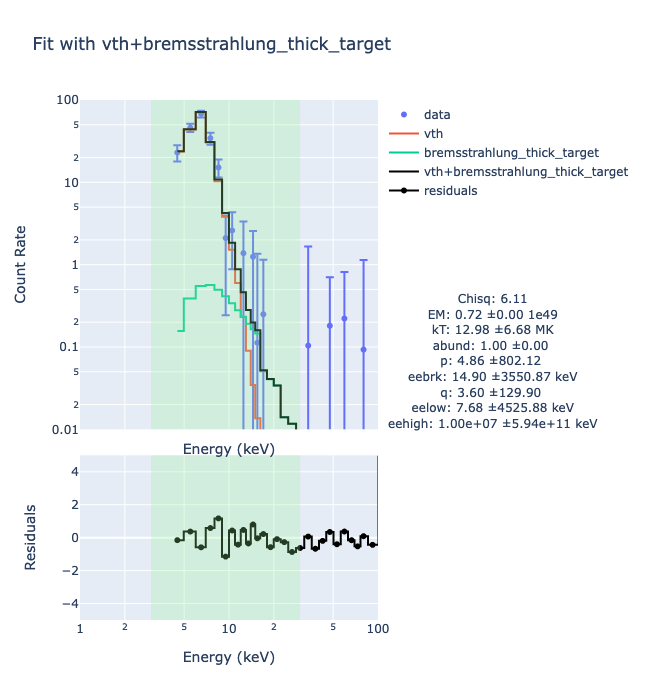
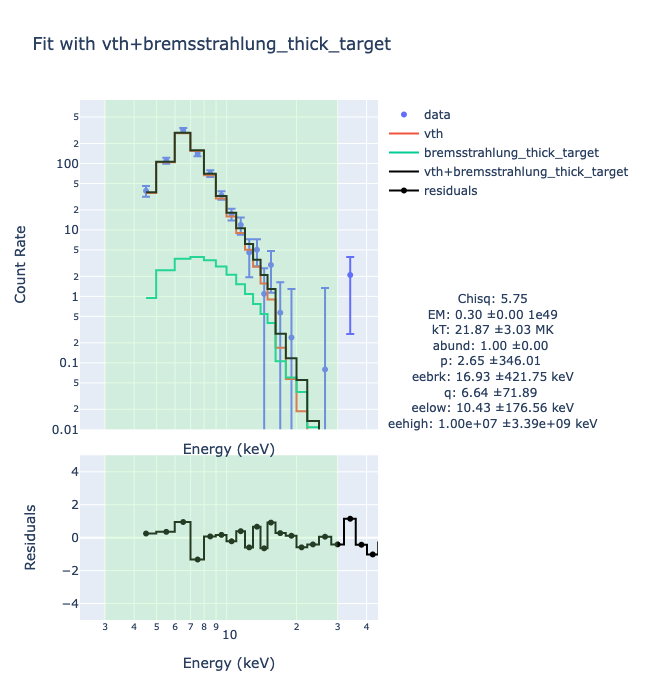
all tests passed

diff --git a/tests/test_convert_spectrogram.py b/tests/test_convert_spectrogram.py
@@ -12,7 +12,7 @@ from stix2xspec.spectrogram_utils import *
 from stix2xspec.stix2xspec import *
 from stix2xspec.write_spectrum2fits import ogip_time_calcs
 from matplotlib import pyplot as plt
-from ml_utils import print_arr_stats
+from importlib import resources
 import pidly
 import os
 
@@ -170,7 +170,7 @@ def test_l1bg_apply_elut(**kwargs):
     
 def test_apply_elut(fitsfile, background = False, pixel=False, atol = 1e-4,energy_shift = 0, use_discriminators = True, replace_doubles = False, keep_short_bins = True, shift_duration = None, alpha = None, time_bin_filename = None):
     spec = Spectrogram(fitsfile, background = background)
-    spec.apply_elut(elut_filename = 'elut_table_20211209.csv')
+    spec.apply_elut(elut_filename = f"{os.environ['STX_CONF']}/elut/elut_table_20211209.csv")
 
     ## same in IDL
     #os.chdir('/Users/wheatley/Documents/Solar/STIX/code/STIX-GSW/')
@@ -278,7 +278,7 @@ def test_l1abg_correction(**kwargs):
     
 def test_correction(fitsfile, background = False, pixel=False, atol = 1e-4,energy_shift = 0, use_discriminators = True, replace_doubles = False, keep_short_bins = True, shift_duration = None, alpha = None, time_bin_filename = None):
     spec = Spectrogram(fitsfile, background = background)
-    spec.apply_elut(elut_filename = 'elut_table_20211209.csv')
+    spec.apply_elut(elut_filename = f"{os.environ['STX_CONF']}/elut/elut_table_20211209.csv")
     #if spec.alpha == 0:
     #    spec.data_level = 4
     spec.correct_counts()
@@ -400,7 +400,7 @@ def test_l1a_conversion(**kwargs):
 #    test_from_fits(l4_test)
     
 def test_conversion(fitsfile, bgfile, atol = 1e-4,energy_shift = 0, pixel=False, use_discriminators = True, replace_doubles = False, keep_short_bins = True, shift_duration = None, alpha = None, time_bin_filename = None):
-    rdict = convert_spectrogram(fitsfile, bgfile, elut_filename = 'elut_table_20211209.csv', testing = True)
+    rdict = convert_spectrogram(fitsfile, bgfile, elut_filename = f"{os.environ['STX_CONF']}/elut/elut_table_20211209.csv", testing = True)
     spec = rdict['spec']
     spec_bk = rdict['spec_bk']
     ## same in IDL
@@ -511,6 +511,48 @@ def test_ogip_time_calcs():
     spec_l1.correct_counts()
     timedict_l1 = ogip_time_calcs(spec_l1)
     print("L1 test passed successfully")
+
+def test_l1a_converted_file():
+    #with resources.path('stix2xspec.data','stx_spectrum_20220723_122031.fits') as pyf:
+    check_converted_files("/Users/wheatley/Documents/Solar/STIX/spectral_fitting/stx_spectrum_2208046494.fits", '/Users/wheatley/Documents/Solar/STIX/spectral_fitting/stx_spectrum_20220804_132655.fits')
+
+def test_l4_converted_file(**kwargs):
+    with resources.path('stix2xspec.data','stx_spectrum_20220723_122031.fits') as pyf:
+        check_converted_files("/Users/wheatley/Documents/Solar/STIX/spectral_fitting/stx_spectrum_2207238956.fits", str(pyf), atol = kwargs['atol'])
+        
+def compare_header_values(py,idl, idx=0, ignoreTrue=True):
+    for k in py[idx].header:
+        if k in idl[idx].header:
+            try:
+                ac = np.allclose(py[idx].header[k],idl[idx].header[k])
+                if not ignoreTrue or not ac:
+                    print(k,ac)
+            except TypeError:
+                if isinstance(py[idx].header[k],str):
+                    ac = py[idx].header[k] == idl[idx].header[k]
+                    if not ignoreTrue or not ac:
+                        print(k,ac)
+                else:
+                    print(k, py[idx].header[k], idl[idx].header[k])
+        
+def check_converted_files(idlconvert, pyconvert, atol = 1e-4):
+    with fits.open(pyconvert) as py, fits.open(idlconvert) as idl:
+        compare_header_values(py,idl)
+        compare_header_values(py,idl,idx=1)
+        for d in py[1].data.names[:-1]:
+            if d == 'TIME':
+                idltimes = [Time(Time(idl[1].header['TIMEZERO']+idl[1].header['MJDREF'], format='mjd').datetime + td(seconds = t)).mjd for t in idl[1].data.TIME]
+                assert_allclose(idltimes, py[1].data.TIME, atol=atol)
+            else:
+                assert_allclose(py[1].data[d], idl[1].data[d], atol=atol)
+        for d in py[2].data.names:
+            assert_allclose(py[2].data[d], idl[2].data[d], atol=atol)
+        for d in py[3].data.names[1:]:
+            #if 'TIME' in d:
+            #    idltimes = [Time(Time(idl[1].header['TIMEZERO']+idl[1].header['MJDREF'], format='mjd').datetime + td(seconds = t)).mjd for t in idl[3].data[d]]
+            #    assert_allclose(idltimes, py[3].data[d], atol=atol)
+            #else:
+            assert_allclose(py[3].data[d], idl[3].data[d], atol=atol)
 
 if __name__ == "__main__":
     test_l4_conversion()

diff --git a/tests/test_example3.py b/tests/test_example3.py
@@ -17,13 +17,14 @@ if __name__ == "__main__" :
     mod_nt.print_ParInfo() # see the initial configuration of parameters
 
     xspec.AllData.clear() # get rid of any data that is still loaded from previous runs
-    xspec.AllData(f"1:1 {'stx_spectrum_20220723_122031.fits'}{{1280}}") # fit the 1000th data row in the converted spectrogram file. make sure the .srm file is in the same folder as the spectrogram file.
-    plot_data(xspec, erange = [4,150],title = f'STIX spectrum').show()
+    xspec.AllData(f"1:1 {'stx_spectrum_20220723_122031.fits'}{{1140}}") # fit the 1140th data row in the converted spectrogram file. make sure the .srm file is in the same folder as the spectrogram file.
+    spectime = fits_time_to_datetime('stx_spectrum_20220723_122031.fits', idx=1140)
+    plot_data(xspec, erange = [4,50],title = f'STIX spectrum at {spectime:%Y-%m-%d %H:%M:%S}').show()
     model, chisq = fit_thermal_nonthermal(xspec, thmodel = 'vth', ntmodel = 'bremsstrahlung_thick_target', lowErange = [3,10])
 
     show_model(model, df=True)
     fig, plotdata0 = plot_fit(xspec, model, fitrange = [3,30],erange=[2,35], plotdata_dict = True)
     fittext = annotate_plot(model, chisq=chisq, exclude_parameters = ['norm','Abundanc','Redshift'], MK=True)
-    fig.update_layout(width=600, yaxis_range = [-2,2])
-    fig.add_annotation(x=1.5,y=.5,text=fittext,xref='paper',yref='paper', showarrow = False)
+    fig.update_layout(width=650, yaxis_range = [-2,3])
+    fig.add_annotation(x=1.75,y=.5,text=fittext,xref='paper',yref='paper', showarrow = False)
     fig.show()

diff --git a/stix2xspec/xspec_utils.py b/stix2xspec/xspec_utils.py
@@ -81,6 +81,18 @@ def spectrum_from_time_interval(original_fitsfile, start_time, end_time, out_fit
     if not out_fitsname:
         out_fitsname=f"{original_fitsfile[:-5]}_{pd.to_datetime(start_time):%H%M%S}-{pd.to_datetime(end_time):%H%M%S}.fits"
     hdul.writeto(out_fitsname)
+    
+def fits_time_to_datetime(fitsfile, idx = None):
+    """Return a datetime axis or single datetime given an OGIP-format FITS file"""
+    with fits.open(fitsfile) as f:
+        time_bin_center = f[1].data.TIME
+        if Time(time_bin_center[0], format='mjd').datetime.year < 2020 or Time(time_bin_center[0], format='mjd').datetime.year > dt.now().year:
+            tt = Time([Time(f[1].header['TIMEZERO']+f[1].header['MJDREF'], format='mjd').datetime + td(seconds = t) for t in time_bin_center])
+        else:
+            tt = Time(time_bin_center, format = 'mjd')
+    if idx:
+        return tt.datetime[idx]
+    return tt.datetime
 
 #def select_background_interval():
 

diff --git a/stix2xspec/livetime.py b/stix2xspec/livetime.py
@@ -8,13 +8,13 @@ from datetime import timedelta as td
 from .triggergram import Triggergram
 from importlib import resources
 
-def pileup_corr_parameter():
-    subc = construct_subcollimator()
-    pixel_areas = subc.det.pixel.area
-    detector_area = (subc.det.area)[0]
-    big_pixel_fraction = pixel_areas[0]/detector_area
-    prob_diff_pix = (2./big_pixel_fraction - 1.)/(2./big_pixel_fraction)
-    return prob_diff_pix
+#def pileup_corr_parameter():
+#    subc = construct_subcollimator()
+#    pixel_areas = subc.det.pixel.area
+#    detector_area = (subc.det.area)[0]
+#    big_pixel_fraction = pixel_areas[0]/detector_area
+#    prob_diff_pix = (2./big_pixel_fraction - 1.)/(2./big_pixel_fraction)
+#    return prob_diff_pix
         
 def livetime_fraction(triggergram, det_used, adg_file = 'adg_table.json'):
     with resources.path('stix2xspec.data', adg_file) as aa:

diff --git a/README.md b/README.md
@@ -172,10 +172,12 @@ This software requires the files stored in [STIX-CONF](https://github.com/i4Ds/S
 These files can also be found in the [IDL ground software](https://github.com/i4Ds/STIX-GSW) _dbase_ directory.  
 
 ```bash
-export STX_CONF="/path/to/STIX-CONF"
+export STX_CONF=/path/to/STIX-CONF
 ```
 
 ## Example - Background-subtract and convert a STIX FITS file 
+
+### [Try it out in CoLab](https://colab.research.google.com/drive/1bXTpKqWAwyp92lM9alSqrAPZtRw2ocMT?usp=sharing)
 
 Download a FITS file from the [STIX Data Center (SDC)](https://datacenter.stix.i4ds.net/). More details about STIX data products, along with tutorials, can be found on the [STIX wiki](https://datacenter.stix.i4ds.net/wiki/index.php?title=STIX_Data_Products). Official science data products are level 1 (L1). These can be found on the [STIX archive server](http://dataarchive.stix.i4ds.net/data/fits/). 
 
@@ -198,7 +200,7 @@ outfile = convert_spectrogram(fitsfile, bgfile, to_fits = True)
 **Figure 1**: A portion of the converted spectrogram
 
 
-![](spectrogram_readme.png)
+![](spectrogram_idl_readme.png)
 
 **Figure 2**: The same portion of the same input and background files, converted using the official IDL STIX ground software (_convert_spectrogram.pro_)
 
@@ -242,8 +244,9 @@ This requires additional installation of  [sunpy/sunxspex](https://github.com/su
 Be sure to enable XSPEC via command line before starting a Python session.
 
 ```bash
-
+. $HEADAS/headas-init.sh
 ```
+
 Add the thermal bremsstrahlung model _vth_ and the non-thermal thick-target bremsstrahlung model _bremsstrahlung_thick_target_ to XSPEC, then fit them first individually and then together.
 
 ```python 
@@ -260,10 +263,13 @@ xspec.AllModels.addPyMod(mod_nt.model, mod_nt.ParInfo, 'add')
 mod_nt.print_ParInfo() # see the initial configuration of parameters
 
 xspec.AllData.clear() # get rid of any data that is still loaded from previous runs
-xspec.AllData(f"1:1 {'stx_spectrum_20220723_122031.fits'}{{1280}}") # fit the 1280th data row in the converted spectrogram file. make sure the .srm file is in the same folder as the spectrogram file.
+xspec.AllData(f"1:1 {'stx_spectrum_20220723_122031.fits'}{{1140}}") # fit the 1140th data row in the converted spectrogram file. make sure the .srm file is in the same folder as the spectrogram file.
 
-plot_data(xspec, erange = [4,50],title = f'STIX spectrum').show()
+spectime = fits_time_to_datetime('stx_spectrum_20220723_122031.fits', idx=1140)
+plot_data(xspec, erange = [4,50],title = f'STIX spectrum at {spectime:%Y-%m-%d %H:%M:%S}').show()
 ```
+![](spectrum_readme.png)
+
 If desired, a time interval rather than a single row (time bin) of the spectrogram can be chosen for fitting. A new FITS file containing only one row must be generated.
 
 ```python
@@ -288,22 +294,21 @@ show_model(model, df=True)
 ```
 | Model par | Model comp | Component | Parameter | Unit | Value | Sigma |
 | :---: | :---: | :---: | --- |--- | --- | --- |
-|1 |1 | vth|EM| 1e49| 0.72 | frozen|
-|2 |1 | vth|kT| keV| 1.12 | ± 0.58|
+|1 |1 | vth|EM| 1e49| 0.30 | frozen| 
+|2 |1 | vth|kT| keV| 1.88 | ± 0.26| 
 |3 |1 | vth|abund| | 1.00 | frozen| 
-|4 |1 | vth|norm| | 1.69e-03 | ± 9.34e-03|
-|5 |2 | bremsstrahlung_thick_target|p| | 4.86 | ± 802.12|
-|6 |2 | bremsstrahlung_thick_target|eebrk| keV| 14.90 | ± 3550.87|
-|7 |2 | bremsstrahlung_thick_target|q| | 3.60 | ± 129.90| 
-|8 |2 | bremsstrahlung_thick_target|eelow| keV| 7.68 | ± 4525.88| 
-|9 |2 | bremsstrahlung_thick_target|eehigh| keV| 1.00e+07 | ± 5.94e+11|
-|10 |2 | bremsstrahlung_thick_target|norm| | 0.15 | ± 334.75|
-
+|4 |1 | vth|norm| | 1.86e-03 | ± 7.77e-04| 
+|5 |2 | bremsstrahlung_thick_target|p| | 2.65 | ± 346.01| 
+|6 |2 | bremsstrahlung_thick_target|eebrk| keV| 16.93 | ± 421.75| 
+|7 |2 | bremsstrahlung_thick_target|q| | 6.64 | ± 71.89| 
+|8 |2 | bremsstrahlung_thick_target|eelow| keV| 10.43 | ± 176.56| 
+|9 |2 | bremsstrahlung_thick_target|eehigh| keV| 1.00e+07 | ± 3.39e+09| 
+|10 |2 | bremsstrahlung_thick_target|norm| | 0.57 | ± 11.83|
 
 ```
 fig = plot_fit(xspec, model, fitrange = [3,30])
 fittext = annotate_plot(model, chisq=chisq, exclude_parameters = ['norm','Abundanc','Redshift'], MK=True)
-fig.update_layout(width=650, yaxis_range = [-1,5])
+fig.update_layout(width=650, yaxis_range = [-2,3])
 fig.add_annotation(x=1.75,y=.5,text=fittext,xref='paper',yref='paper', showarrow = False)
 fig.show()
 ```
